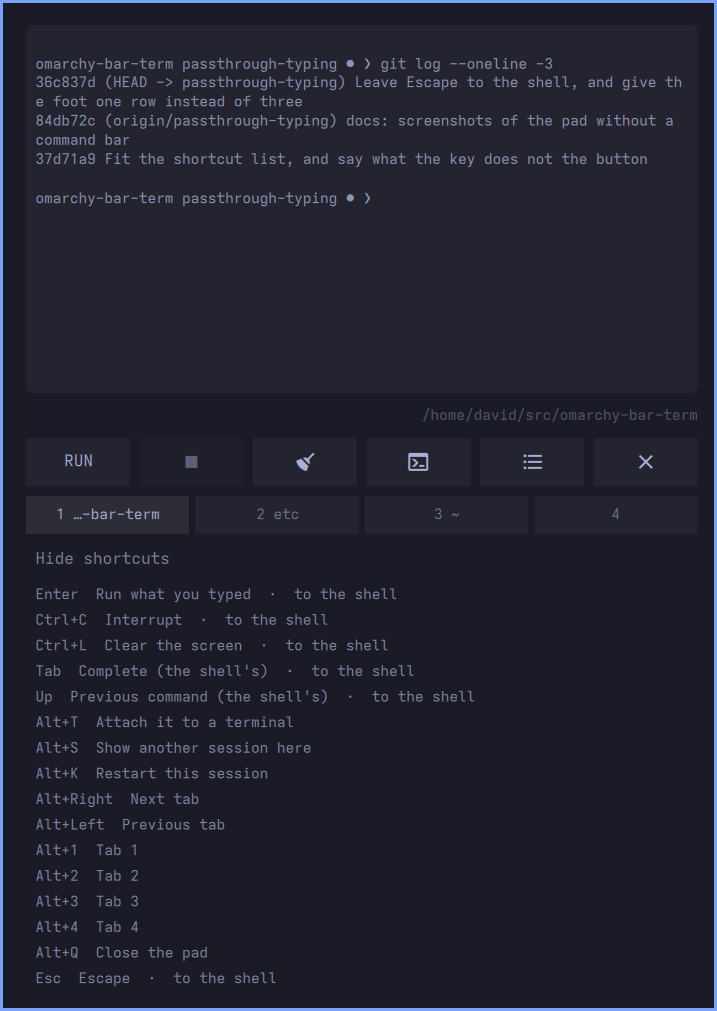
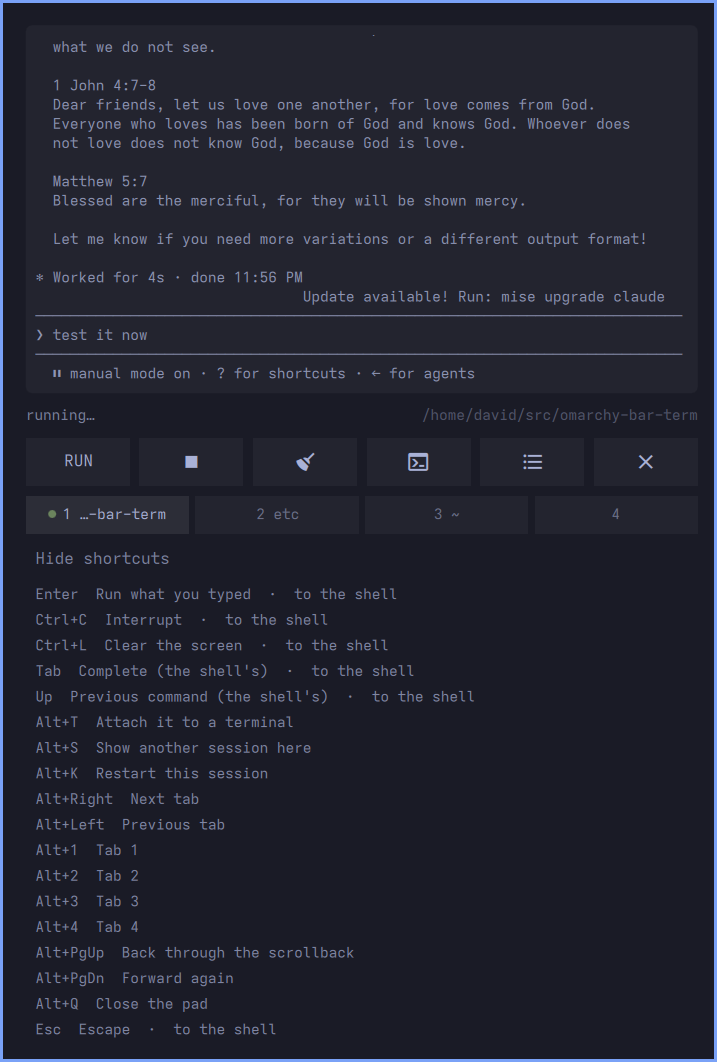
docs: Alt+PgUp and Alt+PgDn on the board and in the table
Claude-Session: https://claude.ai/code/session_01NsuTX3xQbZ1pzCFMGiucjP

diff --git a/README.md b/README.md
@@ -102,12 +102,13 @@ nothing to click first, and nothing to learn that you did not already know.
 | `Alt+K` | Restart this session |
 | `Alt+←` `Alt+→` | Previous and next tab |
 | `Alt+1` … `Alt+4` | Jump to a tab |
+| `Alt+PgUp` `Alt+PgDn` | Read back through the pad's scrollback |
 | `Alt+Q` | Close the pad |
 
 **Everything else is the shell's**, typed into the session as you press it. `Tab`
 completes, `Enter` runs, `Up` walks *bash's* history, `Ctrl+R` searches it, `Ctrl+C`
-interrupts, `Ctrl+L` clears, `Ctrl+W` kills a word, and `Escape` is whatever the thing
-you are running makes of it. There is no line editor of the widget's own to be worse than
+interrupts, `Ctrl+L` clears, `Ctrl+W` kills a word, and `Escape`, `PageUp` and `PageDown`
+are whatever the thing you are running makes of them. There is no line editor of the widget's own to be worse than
 the one you already have.
 
 Closing is `Alt+Q`, the bar icon, or whatever hotkey you bound — not `Escape`, because a
